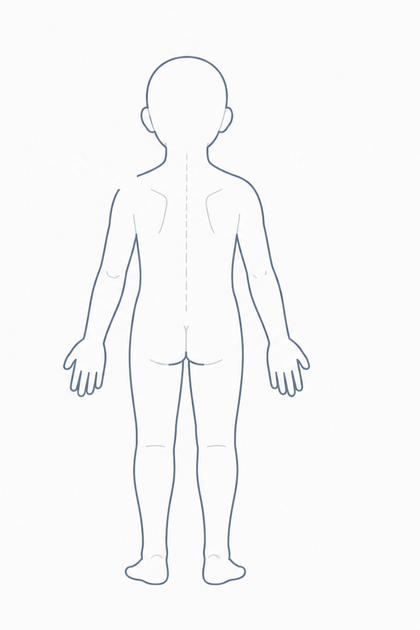
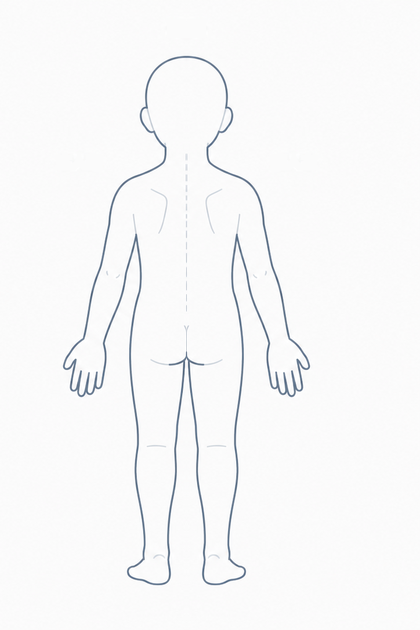
fix: 背面圖左肩線稿破損→鏡像乾淨右半重繪對稱底圖,肩部熱區兩側齊全可點

diff --git a/src/template.html b/src/template.html
@@ -227,6 +227,7 @@
           <polygon class="zone" data-part="foot" data-side="left" points="382.7,977.4 382.7,1013.6 439.6,1013.6 449.9,1008.4 465.4,1008.4 467.2,1005.0 467.2,977.4"><title>左足部</title></polygon>
 
 
+
         </svg>
       </div>
       <div class="figure-pane">
@@ -234,22 +235,22 @@
         <div class="pane-top"><span class="pane-title">Back</span></div>
         <svg class="body-svg" viewBox="0 0 724 1086" role="img" aria-label="Body back">
           <image href="/*BACK_IMG*/" x="0" y="0" width="724" height="1086" preserveAspectRatio="xMidYMid meet" pointer-events="none"></image>
-          <polygon class="zone" data-part="occiput" data-side="" points="262.0,120.7 258.6,131.0 258.6,234.4 382.7,234.4 382.7,125.8 367.2,110.3 275.8,110.3"><title>後腦/枕部</title></polygon>
+          <polygon class="zone" data-part="occiput" data-side="" points="274.1,110.3 258.6,125.8 258.6,234.4 382.7,234.4 382.7,125.8 367.2,110.3"><title>後腦/枕部</title></polygon>
           <polygon class="zone" data-part="neck" data-side="" points="289.6,234.4 289.6,281.0 351.7,281.0 351.7,234.4"><title>頸部</title></polygon>
-          <polygon class="zone" data-part="upper_back" data-side="" points="251.7,281.0 251.7,291.3 234.4,301.7 234.4,324.1 227.5,325.8 227.5,458.5 413.7,458.5 413.7,303.4 393.0,296.5 389.6,281.0"><title>上背/胸背</title></polygon>
+          <polygon class="zone" data-part="upper_back" data-side="" points="227.5,303.4 227.5,458.5 413.7,458.5 413.7,303.4 393.0,296.5 389.6,281.0 251.7,281.0 248.2,296.5"><title>上背/胸背</title></polygon>
           <polygon class="zone" data-part="lower_back" data-side="" points="237.9,458.5 237.9,580.9 403.4,580.9 403.4,458.5"><title>下背/腰</title></polygon>
           <polygon class="zone" data-part="buttock" data-side="" points="246.5,580.9 246.5,670.6 403.4,670.6 403.4,580.9"><title>臀部</title></polygon>
           <polygon class="zone" data-part="scapula" data-side="left" points="237.9,299.9 237.9,391.3 320.6,391.3 320.6,299.9"><title>左肩胛</title></polygon>
           <polygon class="zone" data-part="scapula" data-side="right" points="320.6,299.9 320.6,391.3 405.1,391.3 405.1,299.9"><title>右肩胛</title></polygon>
-          <polygon class="zone" data-part="shoulder" data-side="left" points="260.3,265.5 251.7,265.5 251.7,291.3 246.5,293.0 244.8,298.2 234.4,301.7 232.7,325.8 186.2,325.8 186.2,358.6 260.3,358.6"><title>左肩部</title></polygon>
+          <polygon class="zone" data-part="shoulder" data-side="left" points="260.3,265.5 251.7,265.5 251.7,293.0 248.2,296.5 231.0,301.7 217.2,308.6 210.3,315.5 205.1,315.5 200.0,329.2 191.3,331.0 191.3,351.7 186.2,355.1 186.2,358.6 260.3,358.6"><title>左肩部</title></polygon>
           <polygon class="zone" data-part="shoulder" data-side="right" points="379.2,265.5 379.2,358.6 455.1,358.6 455.1,355.1 449.9,351.7 449.9,331.0 441.3,329.2 436.1,315.5 431.0,315.5 424.1,308.6 410.3,301.7 393.0,296.5 389.6,293.0 389.6,265.5"><title>右肩部</title></polygon>
-          <polygon class="zone" data-part="upper_arm" data-side="left" points="186.2,325.8 186.2,384.4 182.7,386.1 182.7,398.2 179.3,399.9 179.3,422.3 174.1,429.2 172.4,441.3 231.0,441.3 231.0,325.8"><title>左上臂</title></polygon>
+          <polygon class="zone" data-part="upper_arm" data-side="left" points="231.0,301.7 210.3,315.5 205.1,315.5 200.0,329.2 191.3,331.0 191.3,351.7 186.2,355.1 186.2,374.1 182.7,375.8 181.0,405.1 177.6,406.8 177.6,422.3 174.1,424.1 172.4,441.3 231.0,441.3"><title>左上臂</title></polygon>
           <polygon class="zone" data-part="upper_arm" data-side="right" points="408.5,301.7 408.5,441.3 468.9,441.3 467.2,424.1 463.7,422.3 463.7,406.8 460.3,405.1 458.5,375.8 455.1,374.1 455.1,355.1 449.9,351.7 449.9,331.0 441.3,329.2 436.1,315.5 431.0,315.5"><title>右上臂</title></polygon>
-          <polygon class="zone" data-part="elbow" data-side="left" points="172.4,439.6 172.4,444.7 168.9,453.4 168.9,465.4 167.2,467.2 167.2,470.6 162.0,474.0 162.0,482.7 158.6,484.4 205.1,484.4 205.1,439.6"><title>左肘部</title></polygon>
+          <polygon class="zone" data-part="elbow" data-side="left" points="172.4,439.6 172.4,451.6 168.9,453.4 168.9,465.4 163.8,468.9 160.3,475.8 160.3,484.4 205.1,484.4 205.1,439.6"><title>左肘部</title></polygon>
           <polygon class="zone" data-part="elbow" data-side="right" points="434.4,439.6 434.4,484.4 480.9,484.4 480.9,475.8 477.5,468.9 472.3,465.4 472.3,453.4 468.9,451.6 468.9,439.6"><title>右肘部</title></polygon>
-          <polygon class="zone" data-part="forearm" data-side="left" points="194.8,482.7 158.6,484.4 158.6,494.7 153.4,501.6 153.4,524.0 148.2,530.9 148.2,555.1 143.1,560.2 143.1,574.0 139.6,575.8 139.6,582.6 132.7,584.4 125.8,591.3 125.8,599.9 194.8,599.9"><title>左前臂</title></polygon>
+          <polygon class="zone" data-part="forearm" data-side="left" points="194.8,482.7 160.3,482.7 156.9,487.8 155.1,505.1 151.7,506.8 151.7,532.7 146.5,537.8 146.5,562.0 141.4,567.1 137.9,584.4 125.8,591.3 125.8,599.9 194.8,599.9"><title>左前臂</title></polygon>
           <polygon class="zone" data-part="forearm" data-side="right" points="444.7,482.7 444.7,599.9 515.4,599.9 515.4,591.3 503.4,584.4 499.9,567.1 494.7,562.0 494.7,537.8 489.6,532.7 489.6,506.8 486.1,505.1 484.4,487.8 480.9,482.7"><title>右前臂</title></polygon>
-          <polygon class="zone" data-part="hand" data-side="left" points="112.0,608.5 108.6,637.8 117.2,639.5 117.2,674.0 122.4,677.5 131.0,677.5 132.7,680.9 200.0,680.9 200.0,596.4 125.8,596.4 117.2,606.8"><title>左手部</title></polygon>
+          <polygon class="zone" data-part="hand" data-side="left" points="122.4,596.4 118.9,606.8 112.0,610.2 108.6,624.0 108.6,634.4 117.2,639.5 120.7,672.3 127.6,674.0 134.5,682.6 200.0,680.9 200.0,596.4"><title>左手部</title></polygon>
           <polygon class="zone" data-part="hand" data-side="right" points="441.3,596.4 441.3,680.9 506.8,682.6 513.7,674.0 520.6,672.3 524.0,639.5 532.7,634.4 532.7,624.0 529.2,610.2 522.3,606.8 518.9,596.4"><title>右手部</title></polygon>
           <polygon class="zone" data-part="thigh" data-side="left" points="244.8,670.6 244.8,824.0 320.6,824.0 320.6,670.6"><title>左大腿</title></polygon>
           <polygon class="zone" data-part="thigh" data-side="right" points="320.6,670.6 320.6,824.0 396.5,824.0 396.5,670.6"><title>右大腿</title></polygon>
@@ -259,8 +260,9 @@
           <polygon class="zone" data-part="lower_leg" data-side="right" points="325.8,875.7 325.8,963.6 387.9,963.6 387.9,875.7"><title>右小腿</title></polygon>
           <polygon class="zone" data-part="achilles" data-side="left" points="258.6,944.6 258.6,999.8 308.6,999.8 308.6,944.6"><title>左跟腱</title></polygon>
           <polygon class="zone" data-part="achilles" data-side="right" points="332.7,944.6 332.7,999.8 382.7,999.8 382.7,944.6"><title>右跟腱</title></polygon>
-          <polygon class="zone" data-part="foot" data-side="left" points="241.3,994.6 241.3,1003.3 248.2,1003.3 253.4,1006.7 258.6,1006.7 260.3,1008.4 282.7,1008.4 286.2,1005.0 322.4,1005.0 322.4,994.6"><title>左足部</title></polygon>
+          <polygon class="zone" data-part="foot" data-side="left" points="241.3,994.6 241.3,999.8 243.1,1001.5 248.2,1001.5 256.8,1006.7 262.0,1006.7 263.7,1008.4 279.3,1008.4 286.2,1005.0 322.4,1005.0 322.4,994.6"><title>左足部</title></polygon>
           <polygon class="zone" data-part="foot" data-side="right" points="320.6,994.6 320.6,1005.0 355.1,1005.0 362.0,1008.4 377.5,1008.4 379.2,1006.7 384.4,1006.7 393.0,1001.5 403.4,999.8 403.4,994.6"><title>右足部</title></polygon>
+
 
 
         </svg>